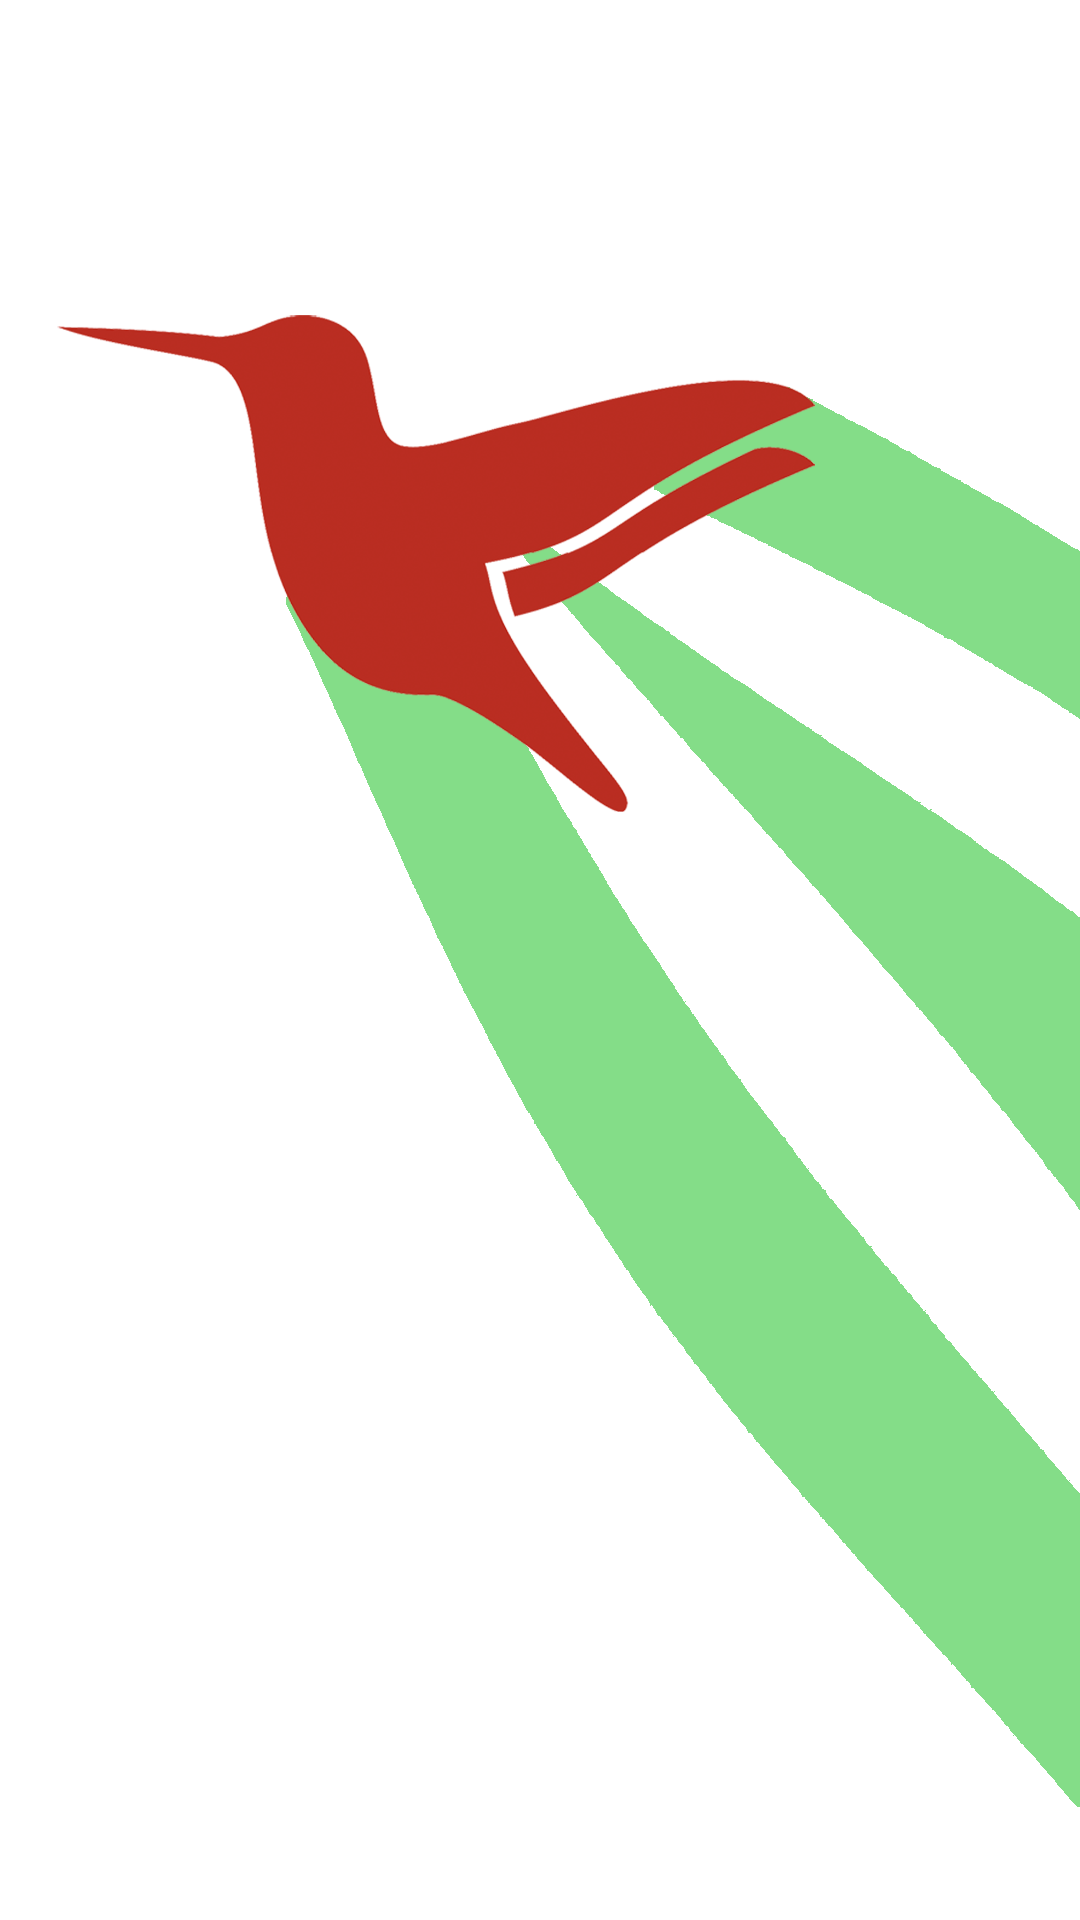
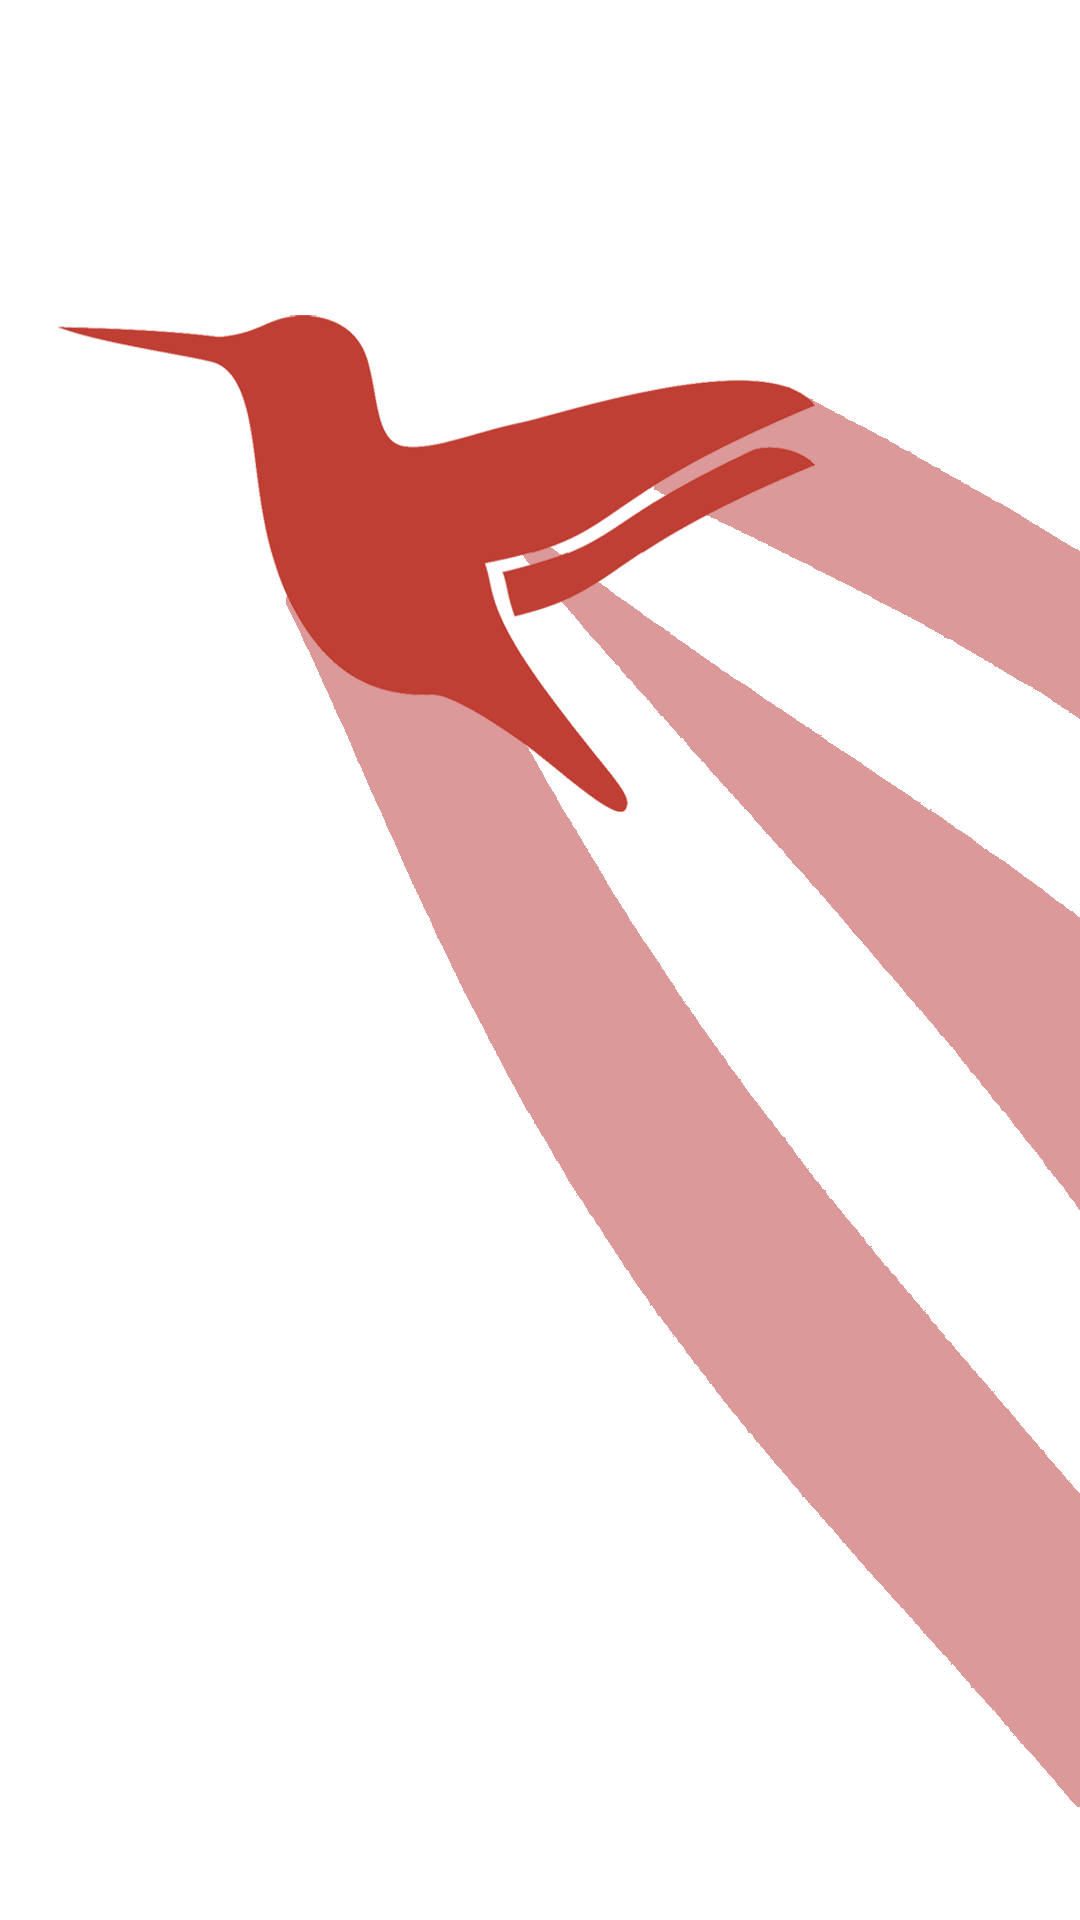
frontend styling complete; update date time display in scheduled and delievered; update color of popup; update login page to red on red.

Changed region(s): [[0.275, 0.3125, 1.0, 0.9375], [0.4889, 0.2812, 1.0, 0.625], [0.6111, 0.1875, 1.0, 0.375]]

diff --git a/www/css/style.css b/www/css/style.css
@@ -12,12 +12,13 @@
   border-radius: 5px;
   box-shadow: 3px 3px 6px #bbb;
   font-weight: bold;
+  font-family: 'Comfortaa', sans-serif;
 }
 
 #login-button {
   width: 80%;
   margin: 0 auto;
-  font-family: 'Comfortaa';
+  font-family: 'Comfortaa', sans-serif;
   margin-top: 100%;
 }
 
@@ -26,7 +27,7 @@
 }
 
 .title-override {
-  font-family: 'Fredoka One';
+  font-family: 'Fredoka One', sans-serif;
   font-size: 2.8em;
   color: #444;
   text-align: center;
@@ -37,4 +38,31 @@
 .subtitle {
   font-size: 1em;
   padding: 0px;
+}
+
+.bar.bar-stable {
+  background-color: #8a8a8a;
+}
+
+.bar.bar-stable .title {
+  color: white;
+  font-family: 'Fredoka One', sans-serif;
+}
+
+#sidebar-menu {
+  background: url(../img/hummingbird-background-flipped.png);
+  background-size: cover;
+  height: 50%;
+  margin-top: 100%;
+  opacity: 0.8;
+}
+
+.popup-head {
+  background-color : white;
+  color: black;
+}
+
+.popup-body {
+  background-color : white;
+  border-radius: 10px;
 }

diff --git a/www/templates/scheduled/scheduled.html b/www/templates/scheduled/scheduled.html
@@ -13,7 +13,7 @@
           <ion-delete-button class="ion-minus-circled" ng-click="deleteMessage(scheduledMessage)"></ion-delete-button>
           <p>To: ({{scheduledMessage.to.slice(0,3)}}) {{scheduledMessage.to.slice(3,6)}}-{{scheduledMessage.to.slice(6,10)}}</p>
           <p>{{scheduledMessage.body}}</p>
-          <p>{{scheduledMessage.send_at_datetime | date}}</p>
+          <p>{{scheduledMessage.send_at_datetime | date : 'MMM d, y h:mm a' }}</p>
         </ion-item>
       </ion-list>
 

diff --git a/www/templates/delivered/delivered.html b/www/templates/delivered/delivered.html
@@ -12,7 +12,7 @@
         <ion-delete-button class="ion-minus-circled" ng-click="deleteMessage(deliveredMessage)"></ion-delete-button>
         <p>To: ({{deliveredMessage.to.slice(0,3)}}) {{deliveredMessage.to.slice(3,6)}}-{{deliveredMessage.to.slice(6,10)}}</p>
         <p>{{deliveredMessage.body}}</p>
-        <p>{{deliveredMessage.send_at_datetime | date}}</p>
+        <p>{{deliveredMessage.send_at_datetime | date : 'MMM d, y h:mm a'}}</p>
     </ion-item>
   </ion-list
   </ion-content>

diff --git a/www/js/controllers.js b/www/js/controllers.js
@@ -116,7 +116,7 @@ angular.module('starter.controllers', ['ng-token-auth'])
 
     if (data.send_at_datetime < date ) {
          var messageScheduledConfirmation = $ionicPopup.show({
-           title: 'Hi Username. Please schedule a date/time in the future!'
+           title: 'Please select a date/time in the future!'
          });
          $timeout(function(){
            messageScheduledConfirmation.close();

diff --git a/www/templates/menu.html b/www/templates/menu.html
@@ -33,5 +33,6 @@
         </ion-item> -->
       </ion-list>
     </ion-content>
+      <div id="sidebar-menu"></div>
   </ion-side-menu>
 </ion-side-menus>
